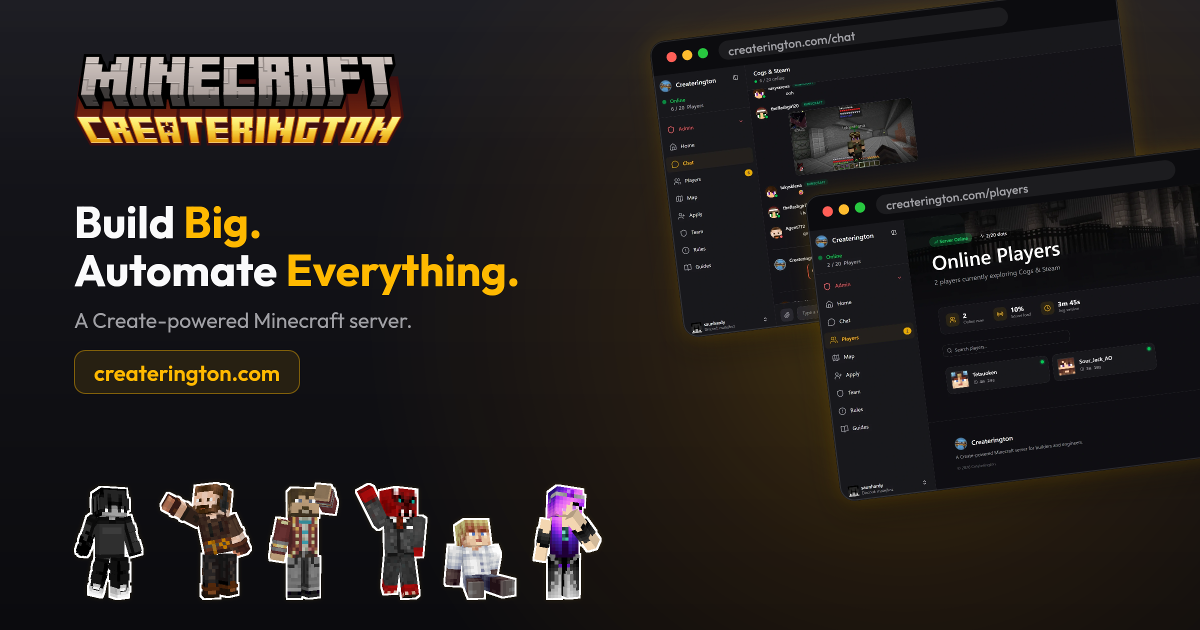
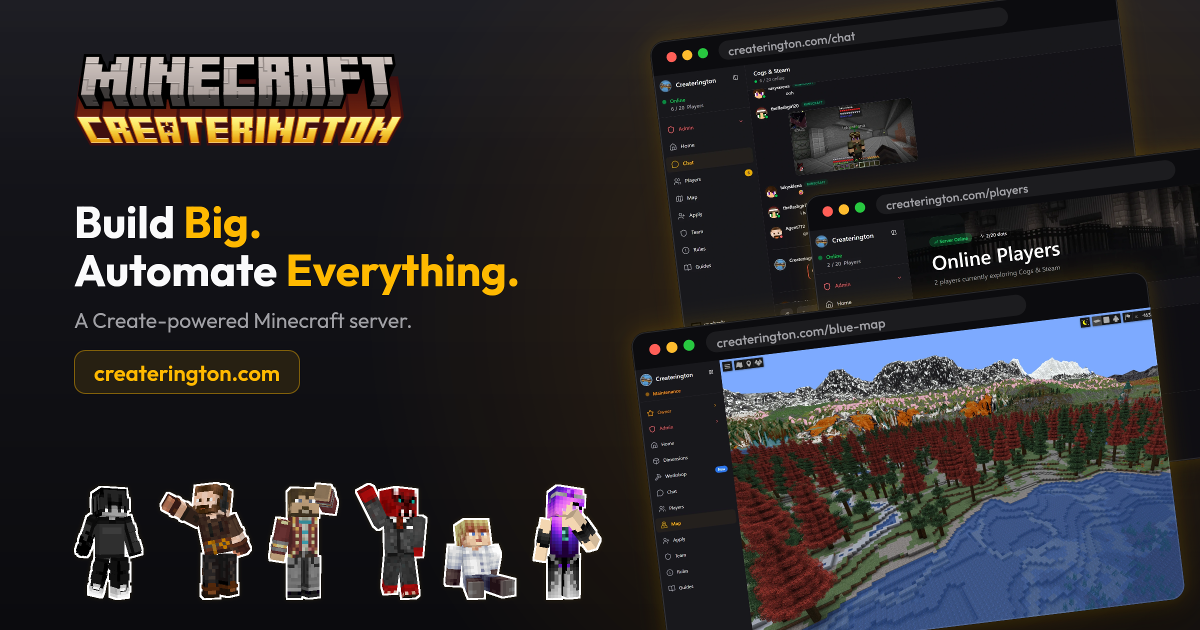
feat: add a blue-map frame to the og card
Restores the third browser window in the cascade, in the slot the
removed crypto frame occupied, now showing the /blue-map page. The
screenshot is a fresh capture of the live site (v1.48.0, logged in,
hand-picked map framing), so its sidebar carries the current nav with
no crypto entries.

Changed region(s): [[0.5242, 0.4825, 0.9867, 1.0], [0.555, 0.9048, 0.5858, 0.9349]]

diff --git a/packages/server/src/scripts/render/render-og-card.ts b/packages/server/src/scripts/render/render-og-card.ts
@@ -73,6 +73,15 @@ const FRAMES: readonly FrameSpec[] = [
     angle: -7,
     z: 2,
   },
+  {
+    file: join(SHOTS, "blue-map.webp"),
+    url: "createrington.com/blue-map",
+    centerX: 908,
+    centerY: 466,
+    width: 520,
+    angle: -7,
+    z: 3,
+  },
 ];
 
 interface TeamMember {
